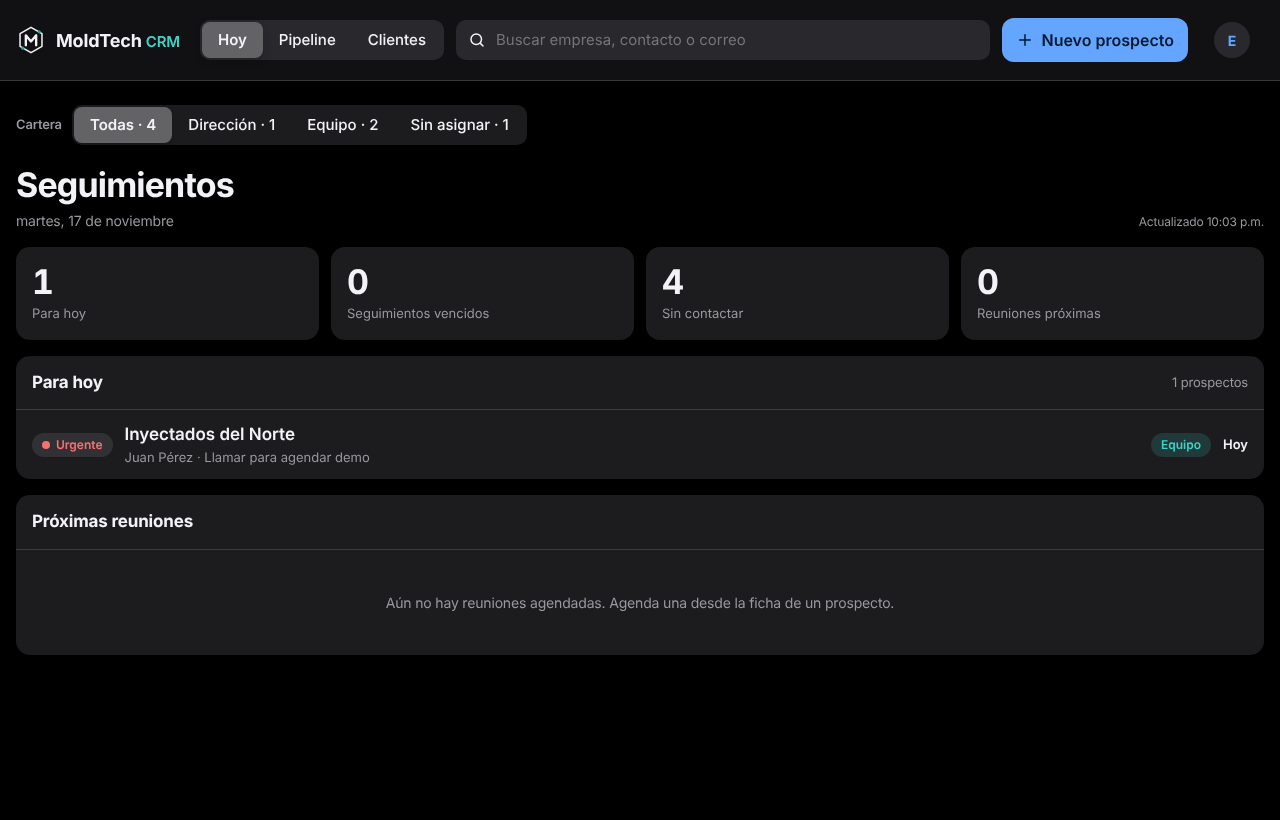
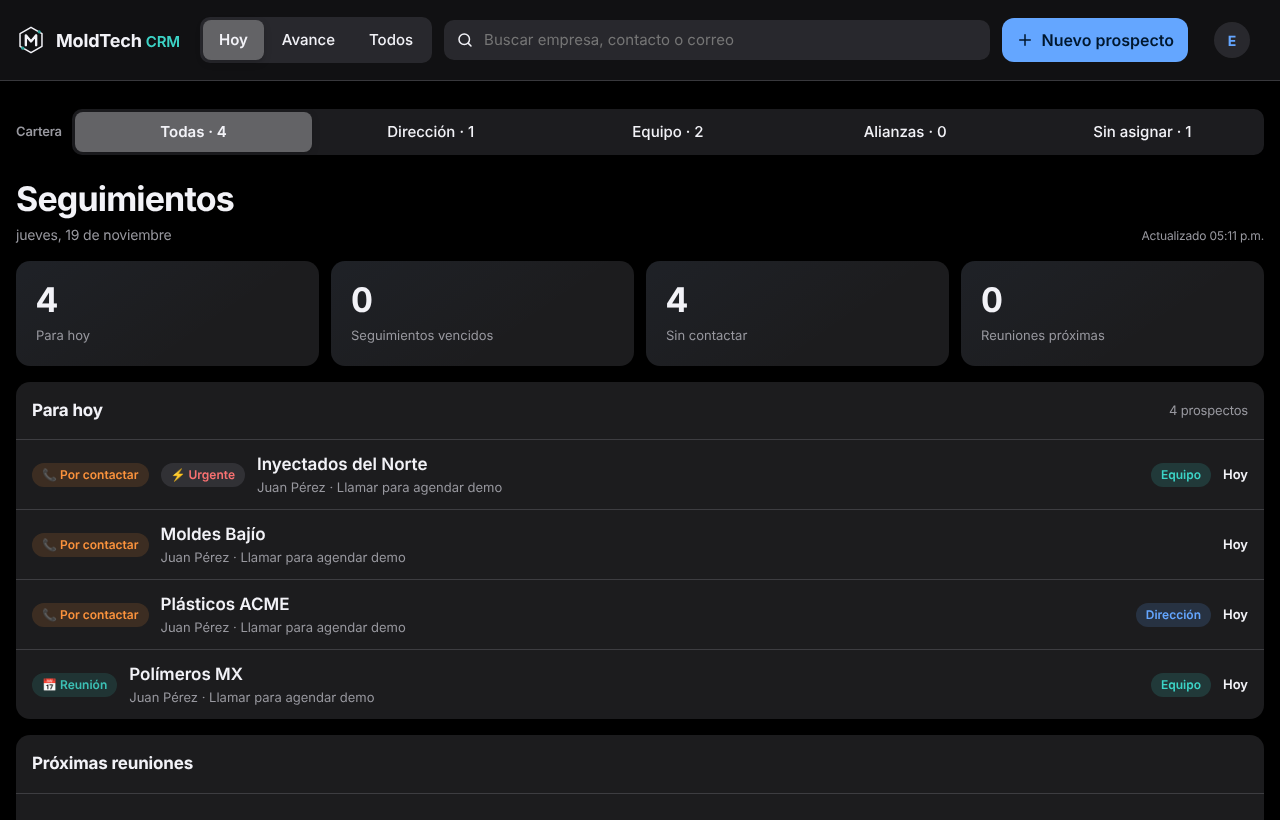
Más simple: un solo campo '¿En qué va?' + casilla Urgente; pestañas Hoy/Avance/Todos; notas más altas
Claude-Session: https://claude.ai/code/session_01MitmXtYdvy7FH5b5YuCGFv

diff --git a/index.html b/index.html
@@ -359,6 +359,13 @@ button.kpi:active,.card:active,.row:active,.btn:not(:disabled):active,.tab:activ
 }
 #dMsg{min-height:300px;line-height:1.55;font-size:16px;resize:vertical}
 @media (max-width:720px){#dMsg{min-height:360px}}
+.chip.av0{background:color-mix(in srgb,var(--s-int) 15%,transparent);color:var(--s-int)}
+.chip.av1{background:color-mix(in srgb,var(--s-msg) 15%,transparent);color:var(--s-msg)}
+.chip.av2,.chip.av3{background:color-mix(in srgb,var(--s-reu) 15%,transparent);color:var(--s-reu)}
+.chip.av4{background:color-mix(in srgb,var(--primary) 15%,transparent);color:var(--primary)}
+.chip.av5{background:color-mix(in srgb,var(--s-cli) 15%,transparent);color:var(--s-cli)}
+.chip.av6{background:var(--muted);color:var(--muted-fg)}
+#f_notas{min-height:200px;line-height:1.55;font-size:16px}
 </style>
 </head>
 <body>
@@ -382,8 +389,8 @@ button.kpi:active,.card:active,.row:active,.btn:not(:disabled):active,.tab:activ
   </div>
   <div class="tabs" role="tablist" aria-label="Vistas">
     <button class="tab" role="tab" data-view="hoy" aria-selected="true"><svg class="ico tico" viewBox="0 0 24 24" aria-hidden="true"><rect x="3" y="4.5" width="18" height="16" rx="3"/><path d="M3 9.5h18M8 2.5v4M16 2.5v4"/></svg><span>Hoy</span></button>
-    <button class="tab" role="tab" data-view="pipeline" aria-selected="false"><svg class="ico tico" viewBox="0 0 24 24" aria-hidden="true"><rect x="3" y="4" width="5" height="16" rx="1.5"/><rect x="10" y="4" width="5" height="11" rx="1.5"/><rect x="17" y="4" width="4" height="7" rx="1.5"/></svg><span>Pipeline</span></button>
-    <button class="tab" role="tab" data-view="lista" aria-selected="false"><svg class="ico tico" viewBox="0 0 24 24" aria-hidden="true"><circle cx="9" cy="8" r="3.5"/><path d="M2.5 20c.6-3.6 3.3-5.5 6.5-5.5s5.9 1.9 6.5 5.5M16 4.5a3.5 3.5 0 0 1 0 7M18.5 14.8c1.7.8 2.8 2.5 3 5.2"/></svg><span>Clientes</span></button>
+    <button class="tab" role="tab" data-view="pipeline" aria-selected="false"><svg class="ico tico" viewBox="0 0 24 24" aria-hidden="true"><rect x="3" y="4" width="5" height="16" rx="1.5"/><rect x="10" y="4" width="5" height="11" rx="1.5"/><rect x="17" y="4" width="4" height="7" rx="1.5"/></svg><span>Avance</span></button>
+    <button class="tab" role="tab" data-view="lista" aria-selected="false"><svg class="ico tico" viewBox="0 0 24 24" aria-hidden="true"><circle cx="9" cy="8" r="3.5"/><path d="M2.5 20c.6-3.6 3.3-5.5 6.5-5.5s5.9 1.9 6.5 5.5M16 4.5a3.5 3.5 0 0 1 0 7M18.5 14.8c1.7.8 2.8 2.5 3 5.2"/></svg><span>Todos</span></button>
   </div>
   <label class="search"><svg class="ico" aria-hidden="true"><use href="#i-search"/></svg><input id="q" type="search" placeholder="Buscar empresa, contacto o correo" aria-label="Buscar"></label>
   <button class="btn primary" id="btnNuevo" type="button"><svg class="ico" aria-hidden="true"><use href="#i-plus"/></svg>Nuevo prospecto</button>
@@ -414,14 +421,14 @@ button.kpi:active,.card:active,.row:active,.btn:not(:disabled):active,.tab:activ
 
   <!-- PIPELINE -->
   <section id="v-pipeline" class="view" hidden>
-    <div><h1>Pipeline</h1><p class="sub">Arrastra una tarjeta para cambiarla de etapa, o ábrela y cambia la etapa en su ficha.</p></div>
+    <div><h1>¿En qué va cada uno?</h1><p class="sub">Arrastra una tarjeta a otra columna o ábrela y cambia "¿En qué va?".</p></div>
     <div class="board" id="board"></div>
   </section>
 
   <!-- LISTA -->
   <section id="v-lista" class="view" hidden>
     <div style="display:flex;flex-wrap:wrap;justify-content:space-between;align-items:flex-end;gap:12px">
-      <div><h1>Clientes y prospectos</h1><p class="sub" id="listaN"></p><button class="btn" id="btnExcel" type="button" style="margin-top:10px">Descargar Excel</button></div>
+      <div><h1>Todos los prospectos</h1><p class="sub" id="listaN"></p><button class="btn" id="btnExcel" type="button" style="margin-top:10px">Descargar Excel</button></div>
       <div class="field" style="min-width:240px"><label for="cfgMail">Correo interno (recibe avisos e invitaciones)</label><input id="cfgMail" type="email" placeholder="correo@moldtech.mx"></div>
     </div>
     <div class="filters" id="filters"></div>
@@ -448,10 +455,10 @@ button.kpi:active,.card:active,.row:active,.btn:not(:disabled):active,.tab:activ
   <div class="d-body">
     <div class="sec">
       <div class="grid2">
-        <div class="field"><label for="dEtapa">Etapa</label><select id="dEtapa"></select></div>
-        <div class="field"><label for="dEstado">Estado</label><select id="dEstado"></select></div>
-        <div class="field"><label for="dCartera">Cartera (quién lo atiende)</label><select id="dCartera"><option value="">Sin asignar</option><option value="Dirección">Dirección</option><option value="Equipo">Equipo</option><option value="Alianzas">Alianzas</option></select></div>
+        <div class="field"><label for="dAvance">¿En qué va?</label><select id="dAvance"></select></div>
+        <div class="field"><label for="dCartera">¿Quién lo atiende?</label><select id="dCartera"><option value="">Sin asignar</option><option value="Dirección">Dirección</option><option value="Equipo">Equipo</option><option value="Alianzas">Alianzas</option></select></div>
       </div>
+      <label class="field" style="flex-direction:row;align-items:center;gap:8px;font-size:15px"><input id="dUrg" type="checkbox" style="width:22px;height:22px;min-height:0">⚡ Es urgente</label>
       <p class="note" id="dAccion"></p>
     </div>
 
@@ -662,6 +669,25 @@ button.kpi:active,.card:active,.row:active,.btn:not(:disabled):active,.tab:activ
   const ETAPA_LBL = {Urgente:'Urgente',Interesado:'Interesados',Mensaje:'Mensaje',Reunión:'Reunión agendada',Cliente:'Cliente','Sin ajuste':'Sin ajuste'};
   const ESTADOS = ['Nuevo','Contactado','Respondió','Reunión agendada','Propuesta enviada','Ganado','Perdido','Archivado'];
   const PRIO = {Alta:0,Media:1,Baja:2,Archivar:3};
+  /* "¿En qué va?": un solo paso de avance, calculado de etapa+estado (el backend no cambia) */
+  const AVANCES = ['Por contactar','Ya le escribimos','Respondió','Reunión','Propuesta enviada','Cliente','No le interesa'];
+  const AV_ICO = {'Por contactar':'📞','Ya le escribimos':'✉','Respondió':'💬','Reunión':'📅','Propuesta enviada':'📄','Cliente':'✅','No le interesa':'⏸'};
+  function avance(r){
+    if (r.estado==='Ganado' || r.etapa==='Cliente') return 'Cliente';
+    if (['Perdido','Archivado'].includes(r.estado) || r.etapa==='Sin ajuste') return 'No le interesa';
+    if (r.estado==='Reunión agendada' || r.etapa==='Reunión') return 'Reunión';
+    if (r.estado==='Propuesta enviada') return 'Propuesta enviada';
+    if (r.estado==='Respondió') return 'Respondió';
+    if (r.estado==='Contactado') return 'Ya le escribimos';
+    return 'Por contactar';
+  }
+  function setAvance(r, a){
+    const temprana = e => ['Urgente','Interesado','Mensaje'].includes(e) ? e : 'Interesado';
+    const m = {'Por contactar':['Nuevo'],'Ya le escribimos':['Contactado'],'Respondió':['Respondió'],'Reunión':['Reunión agendada','Reunión'],
+      'Propuesta enviada':['Propuesta enviada'],'Cliente':['Ganado','Cliente'],'No le interesa':['Perdido','Sin ajuste']}[a];
+    r.estado = m[0]; r.etapa = m[1] || temprana(r.etapa);
+  }
+  const esUrgente = r => r.etapa==='Urgente';
   const store = { get(k){ try{ return localStorage.getItem(k); }catch(e){ return null; } }, set(k,v){ try{ v==null?localStorage.removeItem(k):localStorage.setItem(k,v); }catch(e){} } };
   let token = store.get('mt_token'), equipo = [], yo = null, remitentes = [], firmas = [], miClave = '';
   const API = 'https://script.google.com/macros/s/AKfycbzipZWKE5zs1webZFRQR06cWPmoTcQ6V1J3nCj1l4vHdMZXSPoAudPcWb6LTE982z4/exec';
@@ -680,6 +706,7 @@ button.kpi:active,.card:active,.row:active,.btn:not(:disabled):active,.tab:activ
   function toast(t){ const el=$('#toast'); el.textContent=t; el.hidden=false; clearTimeout(toast.t); toast.t=setTimeout(()=>el.hidden=true,2600); }
   const stCls = e => 'st-' + String(e).split(' ')[0];
   const chipEtapa = e => `<span class="chip ${stCls(e)}"><span class="dot"></span>${esc(ETAPA_LBL[e]||e)}</span>`;
+  const chipAv = r => `<span class="chip av av${AVANCES.indexOf(avance(r))}">${AV_ICO[avance(r)]} ${esc(avance(r))}</span>` + (esUrgente(r) && !['Cliente','No le interesa'].includes(avance(r)) ? '<span class="chip st-Urgente">⚡ Urgente</span>' : '');
   const chipCons = c => c === 'Sí' ? '<span class="chip ok">Acepta mensajes</span>' : c === 'No' ? '<span class="chip warn">No acepta promociones</span>' : '';
 
   /* ---------- carga ---------- */
@@ -724,28 +751,28 @@ button.kpi:active,.card:active,.row:active,.btn:not(:disabled):active,.tab:activ
     $('#listaHoy').innerHTML = lst.length ? lst.map(r => {
       const late = r.proximo && r.proximo < hoy;
       const when = r.proximo ? (late ? 'Vencido · ' + fmtD(r.proximo) : 'Hoy') : 'Contactar';
-      return `<button type="button" class="row" data-id="${esc(r.id)}">${chipEtapa(r.etapa)}<span class="main"><span class="t">${esc(r.empresa)}</span><span class="m">${esc(r.nombre)} · ${esc(r.accion || 'Dar seguimiento')}</span></span>${chipCart(r.cartera)}<span class="when ${late?'late':''}">${when}</span></button>`;
+      return `<button type="button" class="row" data-id="${esc(r.id)}">${chipAv(r)}<span class="main"><span class="t">${esc(r.empresa)}</span><span class="m">${esc(r.nombre)} · ${esc(r.accion || 'Dar seguimiento')}</span></span>${chipCart(r.cartera)}<span class="when ${late?'late':''}">${when}</span></button>`;
     }).join('') : '<p class="empty">No hay seguimientos pendientes para hoy. Revisa el pipeline para elegir a quién contactar.</p>';
     $('#listaReu').innerHTML = reus.length ? reus.map(r => `<button type="button" class="row" data-id="${esc(r.id)}"><svg class="ico" aria-hidden="true"><use href="#i-cal"/></svg><span class="main"><span class="t">${esc(r.empresa)}</span><span class="m">${esc(r.reunion)}</span></span></button>`).join('') : '<p class="empty">Aún no hay reuniones agendadas. Agenda una desde la ficha de un prospecto.</p>';
 
     // pipeline
-    $('#board').innerHTML = ETAPAS.map(e => {
-      const items = data.filter(r => r.etapa===e && match(r)).sort(ordenar);
-      return `<section class="col" data-etapa="${esc(e)}"><div class="col-h ${stCls(e)}"><span class="dot"></span><span style="color:var(--fg)">${esc(ETAPA_LBL[e])}</span><span class="n">${items.length}</span></div>` +
-        items.map(r => `<button type="button" class="card" draggable="true" data-id="${esc(r.id)}"><span class="t">${esc(r.empresa)}</span><span class="m">${esc(r.nombre)}${r.puesto? ' · '+esc(r.puesto):''}</span><span class="a">${esc(r.accion||'')}</span><span class="foot">${chipCart(r.cartera)}<span class="chip">${esc(r.estado)}</span>${r.proximo?`<span class="chip">${fmtD(r.proximo)}</span>`:''}${r.maquinas?`<span class="chip">${esc(r.maquinas)} máq.</span>`:''}</span></button>`).join('') + '</section>';
+    $('#board').innerHTML = AVANCES.map((e,i) => {
+      const items = data.filter(r => avance(r)===e && match(r)).sort(ordenar);
+      return `<section class="col" data-etapa="${esc(e)}"><div class="col-h"><span>${AV_ICO[e]}</span><span style="color:var(--fg)">${esc(e)}</span><span class="n">${items.length}</span></div>` +
+        items.map(r => `<button type="button" class="card" draggable="true" data-id="${esc(r.id)}"><span class="t">${esc(r.empresa)}</span><span class="m">${esc(r.nombre)}${r.puesto? ' · '+esc(r.puesto):''}</span><span class="a">${esc(r.accion||'')}</span><span class="foot">${chipCart(r.cartera)}${esUrgente(r)?'<span class="chip st-Urgente">⚡ Urgente</span>':''}${r.proximo?`<span class="chip">${fmtD(r.proximo)}</span>`:''}${r.maquinas?`<span class="chip">${esc(r.maquinas)} máq.</span>`:''}</span></button>`).join('') + '</section>';
     }).join('');
 
     // lista
-    const fl = ['Todos', ...ETAPAS, 'Aceptan mensajes'];
-    $('#filters').innerHTML = fl.map(f => `<button type="button" class="fchip" data-f="${esc(f)}" aria-pressed="${f===filtro}">${esc(ETAPA_LBL[f]||f)} · ${f==='Todos'?data.filter(enCartera).length:f==='Aceptan mensajes'?data.filter(r=>enCartera(r)&&r.consentimiento==='Sí').length:data.filter(r=>enCartera(r)&&r.etapa===f).length}</button>`).join('');
-    const rows = data.filter(r => match(r) && (filtro==='Todos' || (filtro==='Aceptan mensajes' ? r.consentimiento==='Sí' : r.etapa===filtro))).sort(ordenar);
+    const fl = ['Todos', 'Urgentes', ...AVANCES];
+    $('#filters').innerHTML = fl.map(f => `<button type="button" class="fchip" data-f="${esc(f)}" aria-pressed="${f===filtro}">${esc(ETAPA_LBL[f]||f)} · ${f==='Todos'?data.filter(enCartera).length:f==='Aceptan mensajes'?data.filter(r=>enCartera(r)&&r.consentimiento==='Sí').length:f==='Urgentes'?data.filter(r=>enCartera(r)&&esUrgente(r)).length:data.filter(r=>enCartera(r)&&avance(r)===f).length}</button>`).join('');
+    const rows = data.filter(r => match(r) && (filtro==='Todos' || (filtro==='Urgentes' ? esUrgente(r) : avance(r)===filtro))).sort(ordenar);
     $('#listaN').textContent = rows.length + ' de ' + data.length + ' registros';
-    $('#tbody').innerHTML = rows.map(r => `<tr data-id="${esc(r.id)}" tabindex="0"><td><b>${esc(r.empresa)}</b></td><td>${esc(r.nombre)}<br><span class="note">${esc(r.puesto)}</span></td><td><select data-cartsel="${esc(r.id)}" aria-label="Cartera de ${esc(r.empresa)}"><option value="" ${!r.cartera?'selected':''}>Sin asignar</option><option ${r.cartera==='Dirección'?'selected':''}>Dirección</option><option ${r.cartera==='Equipo'?'selected':''}>Equipo</option><option ${r.cartera==='Alianzas'?'selected':''}>Alianzas</option></select></td><td>${chipEtapa(r.etapa)}</td><td>${esc(r.estado)}</td><td>${esc(r.accion)}</td><td>${fmtD(r.proximo)}</td><td>${r.consentimiento==='Sí'?'Sí':esc(r.consentimiento||'Sin dato')}</td></tr>`).join('') || '<tr><td colspan="8" class="empty">Sin resultados.</td></tr>';
+    $('#tbody').innerHTML = rows.map(r => `<tr data-id="${esc(r.id)}" tabindex="0"><td><b>${esc(r.empresa)}</b></td><td>${esc(r.nombre)}<br><span class="note">${esc(r.puesto)}</span></td><td><select data-cartsel="${esc(r.id)}" aria-label="Cartera de ${esc(r.empresa)}"><option value="" ${!r.cartera?'selected':''}>Sin asignar</option><option ${r.cartera==='Dirección'?'selected':''}>Dirección</option><option ${r.cartera==='Equipo'?'selected':''}>Equipo</option><option ${r.cartera==='Alianzas'?'selected':''}>Alianzas</option></select></td><td>${chipAv(r)}</td><td>${esc(r.estado)}</td><td>${esc(r.accion)}</td><td>${fmtD(r.proximo)}</td><td>${r.consentimiento==='Sí'?'Sí':esc(r.consentimiento||'Sin dato')}</td></tr>`).join('') || '<tr><td colspan="8" class="empty">Sin resultados.</td></tr>';
   }
 
   /* ---------- exportar a Excel (lo que se ve en la tabla) ---------- */
   function filasVisibles(){
-    return data.filter(r => match(r) && (filtro==='Todos' || (filtro==='Aceptan mensajes' ? r.consentimiento==='Sí' : r.etapa===filtro))).sort(ordenar);
+    return data.filter(r => match(r) && (filtro==='Todos' || (filtro==='Urgentes' ? esUrgente(r) : avance(r)===filtro))).sort(ordenar);
   }
   function cargarXLSX(){
     if (window.XLSX) return Promise.resolve(window.XLSX);
@@ -802,7 +829,7 @@ button.kpi:active,.card:active,.row:active,.btn:not(:disabled):active,.tab:activ
   let dragId = null;
   $('#board').addEventListener('dragstart', e => { const c=e.target.closest('.card'); if(c){ dragId=c.dataset.id; e.dataTransfer.effectAllowed='move'; } });
   $('#board').addEventListener('dragover', e => { const col=e.target.closest('.col'); if(col&&dragId){ e.preventDefault(); document.querySelectorAll('.col.over').forEach(x=>x.classList.remove('over')); col.classList.add('over'); } });
-  $('#board').addEventListener('drop', e => { const col=e.target.closest('.col'); document.querySelectorAll('.col.over').forEach(x=>x.classList.remove('over')); if(!col||!dragId) return; e.preventDefault(); const r=data.find(x=>x.id===dragId); dragId=null; if(r && r.etapa!==col.dataset.etapa){ const old=r.etapa; r.etapa=col.dataset.etapa; render(); guardar(r, 'Etapa: '+old+' → '+r.etapa); } });
+  $('#board').addEventListener('drop', e => { const col=e.target.closest('.col'); document.querySelectorAll('.col.over').forEach(x=>x.classList.remove('over')); if(!col||!dragId) return; e.preventDefault(); const r=data.find(x=>x.id===dragId); dragId=null; if(r && avance(r)!==col.dataset.etapa){ const old=avance(r); setAvance(r, col.dataset.etapa); render(); guardar(r, 'Avance: '+old+' → '+avance(r)); } });
 
   /* ---------- ficha ---------- */
   const onlyDigits = t => String(t||'').replace(/\D/g,'');
@@ -812,8 +839,9 @@ button.kpi:active,.card:active,.row:active,.btn:not(:disabled):active,.tab:activ
     waMostrar();
     $('#dTitle').textContent = r.empresa || 'Sin empresa';
     $('#dSub').textContent = [r.nombre, r.puesto].filter(Boolean).join(' · ');
-    $('#dChips').innerHTML = chipEtapa(r.etapa) + (r.prioridad?`<span class="chip">Prioridad ${esc(r.prioridad)}</span>`:'') + chipCons(r.consentimiento) + (r.origen?`<span class="chip">${esc(r.origen)}</span>`:'');
-    $('#dEtapa').innerHTML = ETAPAS.map(e=>`<option value="${esc(e)}" ${e===r.etapa?'selected':''}>${esc(ETAPA_LBL[e])}</option>`).join('');
+    $('#dChips').innerHTML = chipAv(r) + chipCons(r.consentimiento) + (r.origen?`<span class="chip">${esc(r.origen)}</span>`:'');
+    $('#dAvance').innerHTML = AVANCES.map(e=>`<option value="${esc(e)}" ${e===avance(r)?'selected':''}>${AV_ICO[e]} ${esc(e)}</option>`).join('');
+    $('#dUrg').checked = esUrgente(r);
     $('#dCartera').value = r.cartera || '';
     const cuentas = [...new Set(['jl.rangel@moldtech.mx', 'le.rosas@moldtech.mx', ...remitentes])];
     $('#dFrom').innerHTML = cuentas.map(m => {
@@ -825,7 +853,6 @@ button.kpi:active,.card:active,.row:active,.btn:not(:disabled):active,.tab:activ
     $('#sendConfirm').hidden = true; $('#aSend').hidden = false;
     $('#dSig').innerHTML = firmas.map(f=>`<option value="${esc(f.k)}" ${f.k===miClave?'selected':''}>${esc(f.n)}</option>`).join('') + '<option value="">Sin firma</option>';
     sigSync();
-    $('#dEstado').innerHTML = ESTADOS.map(e=>`<option ${e===r.estado?'selected':''}>${esc(e)}</option>`).join('');
     $('#dAccion').textContent = r.accion ? 'Siguiente acción sugerida: ' + r.accion : '';
     $('#dMsg').value = r.mensaje || ('Hola' + (r.nombre && r.nombre!=='Por identificar' ? ', '+r.nombre.split(' ')[0] : '') + '. Te contacto del equipo MoldTech a raíz de Plastimagen 2026. ¿Podemos agendar 15 minutos para mostrarte cómo monitorear tu producción en tiempo real?');
     $('#dTpl').innerHTML = '<option value="">Mensaje guardado / escribir el mío</option>' + PLANTILLAS.map((t,i)=>`<option value="${i}">${esc(t.n)}</option>`).join('');
@@ -886,9 +913,10 @@ button.kpi:active,.card:active,.row:active,.btn:not(:disabled):active,.tab:activ
     try{ const s = await gs('guardar', r, nota||''); const i=data.findIndex(x=>x.id===s.id); if(i>=0) data[i]=s; else data.push(s); render(); if(abierto && abierto.id===s.id) llenarFicha(s); return s; }
     catch(e){ toast('No se pudo guardar. Revisa tu conexión e inténtalo de nuevo.'); throw e; }
   }
-  $('#dEtapa').addEventListener('change', () => { const r=abierto, old=r.etapa; r.etapa=$('#dEtapa').value; guardar(r,'Etapa: '+old+' → '+r.etapa).then(()=>toast('Etapa actualizada')); });
+  $('#dAvance').addEventListener('change', () => { const r=abierto, old=avance(r); setAvance(r, $('#dAvance').value); if ($('#dUrg').checked && ['Nuevo','Contactado','Respondió'].includes(r.estado)) r.etapa='Urgente'; guardar(r,'Avance: '+old+' → '+avance(r)).then(()=>toast('Avance actualizado')); });
+  $('#dUrg').addEventListener('change', () => { const r=abierto; if ($('#dUrg').checked) r.etapa='Urgente'; else if (r.etapa==='Urgente') r.etapa='Interesado'; guardar(r, $('#dUrg').checked ? 'Marcado como urgente' : 'Ya no es urgente').then(()=>toast('Listo')); });
   $('#dCartera').addEventListener('change', () => { const r=abierto, old=r.cartera||'Sin asignar'; r.cartera=$('#dCartera').value; guardar(r,'Cartera: '+old+' → '+(r.cartera||'Sin asignar')).then(()=>toast('Cartera actualizada')); });
-  $('#dEstado').addEventListener('change', () => { const r=abierto, old=r.estado; r.estado=$('#dEstado').value; guardar(r,'Estado: '+old+' → '+r.estado).then(()=>toast('Estado actualizado')); });
+
   $('#aSend').addEventListener('click', () => {
     const r=abierto, mail=$('#f_email').value.trim();
     if(!mail){ toast('Este prospecto no tiene correo. Agrégalo en Datos y guarda.'); return; }

diff --git a/AGENTS.md b/AGENTS.md
@@ -47,6 +47,9 @@ Todas, salvo `login`, reciben `token` como primer argumento. Sesión de 8 h en C
 - `cartera`: `Dirección` (la atienden los jefes) · `Equipo` (Emiliano y Patrick) · `Alianzas` (colaboraciones, prensa, marketing y socios; no son clientes) · vacío = sin asignar. No usar nombres como "ultra importantes".
 - Para agregar columnas: añadir al final de `COLS` en el backend (la hoja agrega el encabezado sola).
 
+## "¿En qué va?" (pantalla)
+La pantalla ya no muestra Etapa y Estado por separado: un solo campo **¿En qué va?** (Por contactar · Ya le escribimos · Respondió · Reunión · Propuesta enviada · Cliente · No le interesa) más la casilla **⚡ Es urgente**. Se calcula y se guarda con `avance(r)` / `setAvance(r, a)` sobre las columnas `etapa` y `estado` (el backend no cambió). Pestañas: Hoy · Avance · Todos.
+
 ## Pantalla (`index.html`)
 Un solo archivo (HTML + CSS + JS, sin build). Estilo Apple (HIG, skill ehmo/platform-design-skills web+iOS): letra del sistema (SF), barra translúcida, controles segmentados, modo claro/oscuro automático; en celular, pestañas abajo y ficha como hoja de iPhone. Instalable como app (manifest.json + apple-touch-icon.png).
 Vistas: Hoy, Pipeline (kanban con drag & drop), Tabla; barra de Cartera (Todas/Dirección/Equipo/Alianzas/Sin asignar, en localStorage `mt_cartera`); ficha lateral con datos, mensaje (enviar correo con remitente y firma, WhatsApp, abrir en mi correo), agendar reunión e historial. Token en localStorage `mt_token`.
